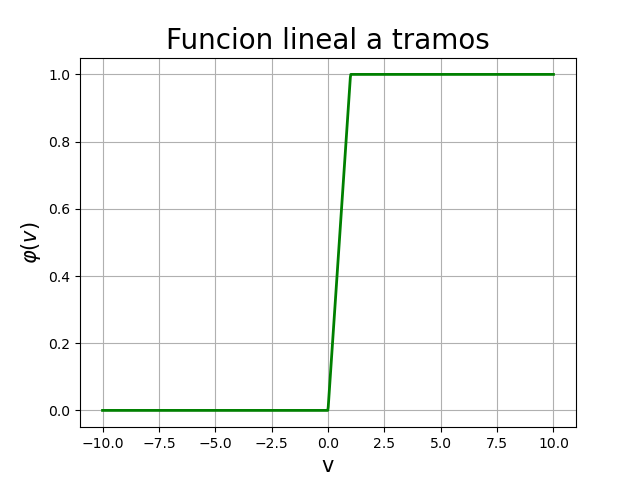
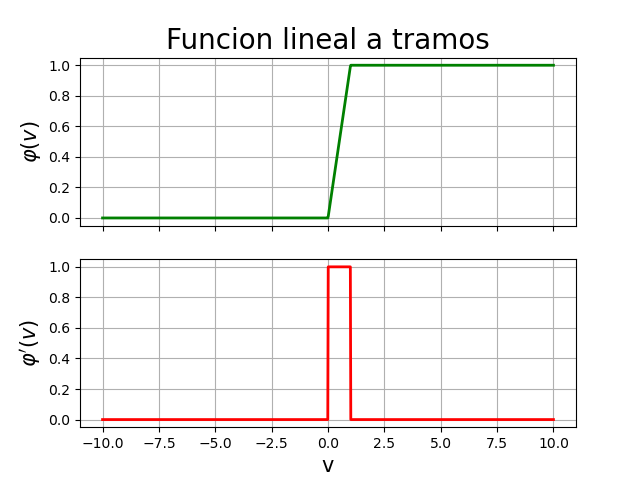
Funciones de activacion y su derivada

diff --git a/readme.md b/readme.md
@@ -1,6 +1,6 @@
 # Redes Neuronales
 
-## Funciones de activación
+## Funciones de activación y su derivada
 
 ### Función ***Escalón***
 
@@ -8,14 +8,20 @@
 
 $$
 \large
-\varphi(v) =
+y = \varphi(v) =
 \left\lbrace
 \begin{matrix}
     1 & \text{si } v \geq 0 \\
     0 & \text{si } v < 0
 \end{matrix}
 \right.
+\quad\quad
+\varphi(v) \in \lbrace 0, 1 \rbrace
+\quad\quad
+\nexists \frac{d}{dv} y
 $$
+
+No muy utilizada actualmente.
 
 ### Función ***Lineal a Tramos***
 
@@ -23,7 +29,7 @@ $$
 
 $$
 \large
-\varphi(v) =
+y = \varphi(v) =
 \left\lbrace
 \begin{matrix}
     1 & v \geq 1 \\
@@ -39,8 +45,37 @@ $$
 
 $$
 \large
-\varphi(v) = \dfrac{1}{1 + e^{-av}}
+y = \varphi(v) = \dfrac{1}{1 + e^{-av}}
+\quad\quad
+\varphi(v) \in \big( 0, 1 \big)
+\quad\quad
+\frac{d}{dv}y = ay(1 - y)
 $$
+
+$$
+\varphi(v) = \frac{1}{1+e^{-av}} = \left( 1 + e^{-av} \right)^{-1}
+$$
+
+$$
+\varphi'(v) = (-1)(1+e^{-av})^{-2}(e^{-av})(-a) = \frac{ae^{-av}}{(1+e^{-av})^2}
+$$
+
+$$
+\varphi'(v) = \left( \frac{a}{1+e^{-av}} \right) \left( \frac{e^{-av}}{1+e^{-av}} \right)
+= \left( \frac{a}{1+e^{-av}} \right) \left( \frac{1+e^{-av}-1}{1+e^{-av}} \right)
+$$
+
+$$
+\varphi'(v) = \left( \frac{a}{1+e^{-av}} \right)
+\left( \cancel{\frac{1+e^{-av}}{1+e^{-av}}} - \frac{1}{1+e^{-av}} \right)
+$$
+
+$$
+\varphi'(v) = a\left( \frac{1}{1+e^{-av}} \right) \left( 1 - \frac{1}{1+e^{-av}} \right)
+= a\varphi(v) \left[ 1 - \varphi(v) \right]
+$$
+
+Se utiliza en cualquier capa pero sobretodo en la capa de salida para clasificación.
 
 ### Función ***Signo***
 
@@ -58,23 +93,56 @@ $$
 \right.
 $$
 
+No muy utilizada actualmente.
+
 ### Función ***Tangente Hiperbólica***
 
 ![](.src/tanH.png)
 
 $$
 \large
-\varphi(v) = \tanh(v)
+y = \varphi(v) = a\tanh(bv)
+\quad\quad
+\varphi(v) \in \big( -1, 1 \big)
+\quad\quad
+\frac{d}{dv}y = \frac{b}{a}(a-y)(a+y)
 $$
 
-### Función ***Lineal***
+$$
+\varphi'(v) = ab\text{ sech}^2(bv) = ab(1-\tanh^2(bv)) = ab - ab\tanh^2(bv)
+$$
+
+$$
+\varphi'(v) = \left( \frac{a}{a} \right) (ab-ab\tanh^2(bv))
+= \frac{a^2b - a^2b\tanh^2(bv)}{a}
+$$
+
+$$
+\varphi'(v) = \frac{b(a^2 - a^2\tanh^2(bv))}{a}
+= \left( \frac{b}{a} \right) (a^2 - a^2\tanh^2(bv))
+$$
+
+$$
+\varphi'(v) = \left( \frac{b}{a} \right) (a - a\tanh(bv)) (a+a\tanh(bv))
+= \left( \frac{b}{a} \right) (a-y) (a+y)
+$$
+
+Se utiliza solo en capas ocultas.
+
+### Función ***Lineal*** o ***Identidad***
 
 ![](.src/lineal.png)
 
 $$
 \large
-\varphi(v) = Av
+y = \varphi(v) = Av
+\quad\quad
+\varphi(v) \in (-\infty, \infty)
+\quad\quad
+\frac{d}{dv}y = \frac{d}{dv}\varphi(v) = A
 $$
+
+Se utiliza en la última capa para casos de regresión.
 
 ### Función ***Gaussiana***
 
@@ -82,8 +150,19 @@ $$
 
 $$
 \large
-\varphi(v) = Ae^{-Bv^2}
+y = \varphi(v) = Ae^{-Bv^2}
+\quad\quad
+\varphi(v) \in ( 0, 1 ]
+\quad\quad
+\frac{d}{dv}y = -2Bvy
 $$
+
+$$
+\large
+\varphi'(v) = -2Bv Ae^{-Bv^2}
+$$
+
+Se utiliza en arquitecturas específicas como en la ***RBF-NN***.
 
 ### Función ***Sinusoidal***
 
@@ -94,3 +173,76 @@ $$
 \varphi(v) = A\sin(Bv + C)
 $$
 
+$$
+\large
+\varphi'(v) = A\cos(Bv+C)
+$$
+
+### Función ***Softplus***
+
+![](.src/softplus.png)
+
+$$
+\large
+y = \varphi(v) = \ln(1+e^{av})
+\quad\quad
+\varphi(v) \in ( 0, \infty )
+\quad\quad
+\frac{d}{dv}y = \frac{1}{1+e^{-av}}
+$$
+
+$$
+\varphi'(v) = \frac{ae^{av}}{1+e^{av}}
+= a\left[ \frac{e^{av}}{1+e^{av}} \left( \frac{\frac{1}{e^{av}}}{\frac{1}{e^{av}}} \right) \right]
+= a\left( \frac{1}{1+e^{-av}} \right)
+$$
+
+$$
+\varphi'(v) = \frac{a}{1+e^{-av}}
+$$
+
+Se utiliza solo en capas ocultas y especialmente en redes profundas.
+
+### Función ***ReLU (Rectified Linear Unit)***
+
+![](.src/relu.png)
+
+$$
+\large
+y = \varphi(v) = \max(0, v)
+\quad\quad
+\varphi(v) \in [0, \infty)
+\quad\quad
+\frac{d}{dv}y =\left\lbrace
+\begin{matrix}
+	1 & \text{si } v \geq 0 \\
+	0 & \text{si } v < 0
+\end{matrix}
+\right.
+$$
+
+Se utiliza solo en capas ocultas y especialmente en redes profundas.
+
+### Función ***Leaky ReLU***
+
+$$
+\large
+y = \varphi(v) = \left\lbrace
+\begin{matrix}
+	0.1v & \text{si } v < 0 \\
+	v & \text{si } v \geq 0
+\end{matrix}
+\right.
+\quad\quad
+\varphi(v) \in (-\infty,\infty)
+\quad\quad
+\frac{d}{dv}y = \left\lbrace
+\begin{matrix}
+	0.1 & \text{si } v < 0 \\
+	1 & \text{si } v \geq 0
+\end{matrix}
+\right.
+$$
+
+Se utiliza solo en capas ocultas y especialmente en redes profundas. Corrige
+algunos detalles de la ***ReLU***.
